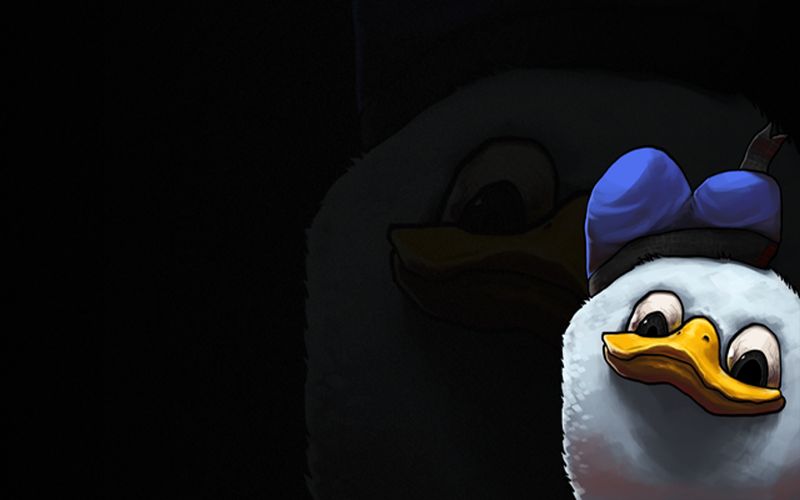
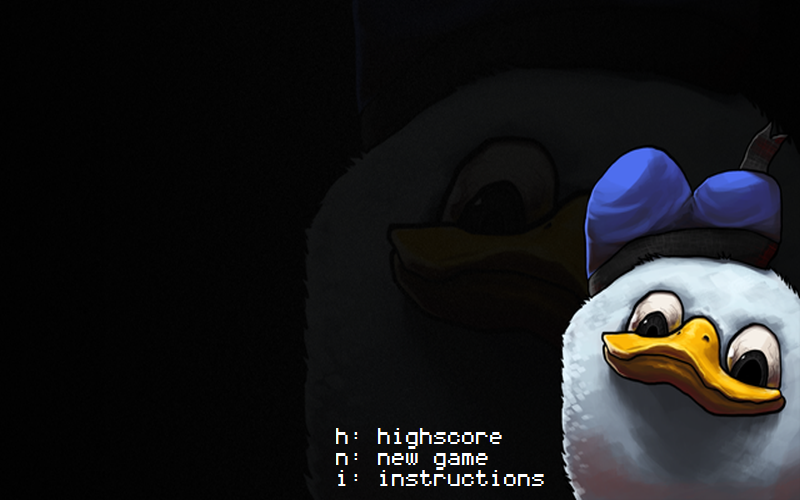
good stuff

Changed region(s): [[0.4688, 0.84, 0.6875, 0.99], [0.4062, 0.84, 0.4375, 0.96]]

diff --git a/GUI.py b/GUI.py
@@ -29,6 +29,7 @@ class GUI:
 		self.score_multiplier = 0
 		self.highscore_submitted = False
 		self.old_pos = None
+		self.time = None
 
 		self.game = Golf_relaxed()
 		self.collumns = [self.game.col1.sprites(), self.game.col2.sprites(), self.game.col3.sprites(), self.game.col4.sprites(), self.game.col5.sprites(), self.game.col6.sprites(), self.game.col7.sprites()]
@@ -51,6 +52,8 @@ class GUI:
 					return
 				elif event.type == KEYDOWN and event.key == K_ESCAPE:
 					myMenu.activate()
+				elif event.type == KEYDOWN and event.key == K_h:
+					self.highscore_box(self.screen)
 				elif event.type == menu.Menu.MENUCLICKEDEVENT:
 					#START AND INITIALIZE GAME
 					if event.item == 0:
@@ -128,7 +131,7 @@ class GUI:
 
 					#Check if we have won the game and submit score and initials to database
 					if self.check_for_win():
-						time = str(self.the_timeMin) + " : " + str(int(self.the_timeSec%60))
+						time = self.time
 						if self.highscore_submitted == False:
 							HighScoreInsertion.insertHighscore(randrange(10000000) , self.ask(self.screen, "Name: "), str(self.the_score), time)
 							self.highscore_submitted = True
@@ -228,6 +231,30 @@ class GUI:
 			screen.blit(fontobject.render(message, 1, (255,255,255)),((screen.get_width() / 2) - 100, (screen.get_height() / 2) +144))
 		pygame.display.flip()
 
+	def highscore_box(self, screen):
+		f = open('highscore.txt', 'r').read().split()
+		fontHigh = pygame.font.Font(None,34)
+		fontobject = pygame.font.Font('data/menu_font.ttf',26)
+		pygame.draw.rect(screen, (0,0,0),((screen.get_width() / 2) - 160,(screen.get_height() / 2) - 200,300,400), 0)
+		pygame.draw.rect(screen, (255,255,255),((screen.get_width() / 2) - 160,(screen.get_height() / 2) - 200,300,400), 1)
+		###################
+		screen.blit(fontHigh.render("HIGHSCORE", 1, (85,13,179)),((screen.get_width() / 2)-80, (screen.get_height() / 2) - 194))
+		count = 0
+		for i in range(len(f)-1):
+			if i == 0:
+				lina = f[count] + "  " + f[count+1] + "  " + f[count+2] + "  " + f[count+3] + f[count+4] + f[count+5]
+				screen.blit(fontobject.render(lina, 1, (255,255,255)),((screen.get_width() / 2) - 130, (screen.get_height() / 2) - 132 + count*3))
+			if i % 6 == 0 and i != 0:
+				count += 6
+				lina = f[count] + "  " + f[count+1] + "  " + f[count+2] + "  " + f[count+3] + f[count+4] + f[count+5]
+				screen.blit(fontobject.render(lina, 1, (255,255,255)),((screen.get_width() / 2) - 130, (screen.get_height() / 2) - 132 + count*3))
+		###################
+		pygame.display.flip()
+		while 1:
+			inkey = self.get_key()
+			if inkey == K_h:
+				break
+
 	def ask(self, screen, question):
 		pygame.font.init()
 		current_string = ""
@@ -265,7 +292,7 @@ class GUI:
 	#else False
 	def check_for_win(self):
 		total_length = len(self.collumns[0]+self.collumns[1]+self.collumns[2]+self.collumns[3]+self.collumns[4]+self.collumns[5]+self.collumns[6])
-		if total_length == 0:
+		if total_length == 30:
 			return True
 		else:
 			return False
@@ -281,7 +308,10 @@ class GUI:
 			seconds = "0"+seconds
 		if len(minutes) == 1:
 			minutes = "0"+minutes
-		self.textTime = self.font.render("Time: " + minutes + ":" + seconds, 1, (255, 255, 255))
+
+		self.time = minutes + " : " + seconds
+		timedisp = minutes + ":" + seconds
+		self.textTime = self.font.render("Time: " + timedisp, 1, (255, 255, 255))
 		self.textposTime = self.textTime.get_rect()
 		self.textposTime.center = (150, 475)
 

diff --git a/menu.py b/menu.py
@@ -12,8 +12,8 @@ class MenuItem (pygame.font.Font):
     '''
     The Menu Item should be derived from the pygame Font class
     '''
-    def __init__(self, text, position, fontSize=36, antialias=1, color=(255, 255, 255), background=None):
-        pygame.font.Font.__init__(self, None, fontSize)
+    def __init__(self, text, position, fontSize=55, antialias=1, color=(255, 255, 255), background=None):
+        pygame.font.Font.__init__(self, 'data/menu_font.ttf', fontSize)
         self.text = text
         if background == None:
             self.textSurface = self.render(self.text, antialias, (255, 255, 255))
@@ -48,7 +48,7 @@ class Menu:
         self.area = screen.get_rect()
         self.background = pygame.Surface(screen.get_size())
         self.background = self.background.convert()
-        self.background_image = pygame.image.load("data/dolanbackground.png")
+        self.background_image = pygame.image.load("data/start_background.png")
         self.backgroundRect = self.background_image.get_rect()
         self.background.blit(self.background_image, self.backgroundRect)
 
